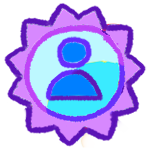
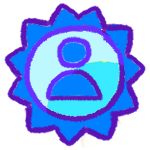
worm awards energy drink & poison

Changed region(s): [[0.0533, 0.0533, 0.9333, 0.96]]

diff --git a/codecreature.net/games/worm-race/guide/index.php b/codecreature.net/games/worm-race/guide/index.php
@@ -85,10 +85,26 @@
 								</div>
 								
 								<div class="award">
-									<img src="../images/award_doctors_away.png" alt="">
-									<div class="name">Doctors Away</div>
+									<img src="../images/award_certified_organic.png" alt="">
+									<div class="name">Certified Organic</div>
 									<div class="description">
 										highest number of apples relative to total items eaten
+									</div>
+								</div>
+								
+								<div class="award">
+									<img src="../images/award_caffeine_addict.png" alt="">
+									<div class="name">Caffeine Addict</div>
+									<div class="description">
+										highest number of drinks relative to total items eaten
+									</div>
+								</div>
+								
+								<div class="award">
+									<img src="../images/award_most_despised.png" alt="">
+									<div class="name">Most Despised</div>
+									<div class="description">
+										highest number of poisons relative to total items eaten
 									</div>
 								</div>
 								

diff --git a/codecreature.net/games/worm-race/worm-functions.php b/codecreature.net/games/worm-race/worm-functions.php
@@ -76,15 +76,19 @@ function getWormAwards() {
 	// find highest kin, highest apples
 	$highest_icons = 0; // number of users with worm as their icon
 	$highest_apple_percent = 0; // highest percent of apples
+	$highest_drink_percent = 0; // highest percent of energy drinks
+	$highest_poison_percent = 0; // highest percent of poisons
 	for ($i = 0; $i < count($worms); $i++) {
 		if (!empty($worms[$i]['kins']) && $worms[$i]['kins'] > $highest_icons) {
 			$highest_icons = $worms[$i]['kins'];
 		}
 		$total_items = $worms[$i]['apple_count'] + $worms[$i]['drink_count'] + $worms[$i]['poison_count'] + $worms[$i]['heal_count'];
 		$worms[$i]["apple_percent"] = $total_items > 0 ? $worms[$i]['apple_count'] / $total_items : 0;
-		if ($worms[$i]["apple_percent"] > $highest_apple_percent) {
-			$highest_apple_percent = $worms[$i]["apple_percent"];
-		}
+		if ($worms[$i]["apple_percent"] > $highest_apple_percent) { $highest_apple_percent = $worms[$i]["apple_percent"]; }
+		$worms[$i]["drink_percent"] = $total_items > 0 ? $worms[$i]['drink_count'] / $total_items : 0;
+		if ($worms[$i]["drink_percent"] > $highest_drink_percent) { $highest_drink_percent = $worms[$i]["drink_percent"]; }
+		$worms[$i]["poison_percent"] = $total_items > 0 ? $worms[$i]['poison_count'] / $total_items : 0;
+		if ($worms[$i]["poison_percent"] > $highest_poison_percent) { $highest_poison_percent = $worms[$i]["poison_percent"]; }
 	}
 	// assign awards
 	for ($i = 0; $i < count($worms); $i++) {
@@ -94,7 +98,15 @@ function getWormAwards() {
 		}
 		// apples award
 		if (!empty($worms[$i]["apple_percent"]) && $worms[$i]["apple_percent"] == $highest_apple_percent) {
-			$worms[$i]['awards'][] = 'Doctors Away';
+			$worms[$i]['awards'][] = 'Certified Organic';
+		}
+		// drinks award
+		if (!empty($worms[$i]["drink_percent"]) && $worms[$i]["drink_percent"] == $highest_drink_percent) {
+			$worms[$i]['awards'][] = 'Caffeine Addict';
+		}
+		// poisons award
+		if (!empty($worms[$i]["poison_percent"]) && $worms[$i]["poison_percent"] == $highest_poison_percent) {
+			$worms[$i]['awards'][] = 'Most Despised';
 		}
 	}
 }